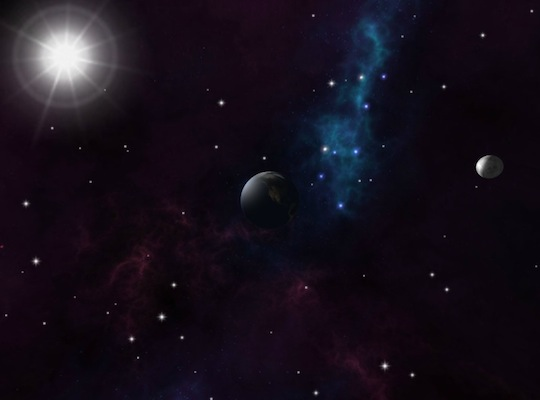
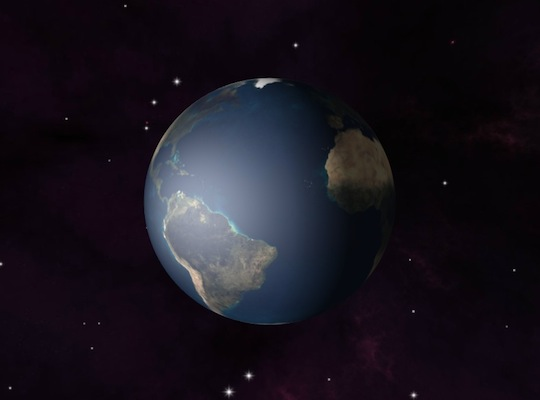
started normal mappping section in globe tutorial

diff --git a/li/materials/globe/src/Globe.html b/li/materials/globe/src/Globe.html
@@ -158,9 +158,9 @@ _view.scene.addChild( skyBox );</pre></div>
 			</section>
 			<section>
 				<h3>Lights</h3>
-				<p>Great, now that we have sufficient objects in our scene to make it rich, its time to make or celestial bodies look a little more realisting. A fundamental
-				aspect that we have ignored so far is lights. Light sources and materials that make use of such lights make objects lighter on some areas and darker on others
-				depending on the configuration of the elements. This provides a powerful enhancement to our scene.</p>
+				<p>Great, now that we have sufficient objects in our scene to make it a bit richer, its time to make or celestial bodies look a little more realistic. A fundamental
+				aspect that we have ignored so far is lighting. Light sources and materials that make use of such lights make objects lighter on some areas and darker on others
+				depending on the configuration of the elements. This provides a powerful enhancement to our scene. Let's see how it looks like when applied.</p>
 				<figure>
 					<a href="http://away3d.com/wikicontent/tutorials/li/materials/globe/bin/listing_03/Launcher.html" rel="shadowbox; width=800;height=600;"><img class="interactiveFigure" src="http://away3d.com/wikicontent/tutorials/li/materials/globe/images/listing_03.jpg"></a>
 					<figcaption>
@@ -169,6 +169,27 @@ _view.scene.addChild( skyBox );</pre></div>
 						</p>
 					</figcaption>
 				</figure>
+				<p>We haven't changed much in this listing, just added a <span class="newTerm">point light</span>, adjusted some settings on such light and the materials, and associated
+				the lights with the material's <code>LightPicker</code>. There are different types of lights in Away3D <code>PointLight</code> being one of them. This represents
+				a light source that emanates light from a point in all directions, oposing other types of lights like <code>DirectionalLight</code> which emanates light from no
+				particular point in a single direction. Each type produces a different effect. In our case, we've used a point light and placed it at the same position of our sun sprite.
+				We've also placed this light in an array and assigned it to our listing's <code>StaticLightPicker</code>. A <span class="newTerm">light picker</span> is simply
+				an object used to group and collect lights in a scene. Consecutively, this light picker is assigned to each of the materials that want to be illuminated. In this case we've applied it
+				to texture materials but the same thing can be done to other types of materials such as color materials. Under the hood, the result is that Away3D produces a phong shader model to
+				illuminate the affected objects.</p>
+				<h4>Phong Shading</h4>
+				<p>Shading via Stage3D uses a rather complicated shading language called AGAL. It looks almost like assembler and is quite hard to deal with. It allows us to produce shader
+				programs which can be uploaded to the GPU and, together with geometries, textures, transforms, etc, define how things are drawn to screen. Fortunately, Away3D wraps all
+				these complexities into an intuitive material system where we can control shading models simply by manipulating parameters. In this case, we've touched on the light source's
+				ambient, diffuse and specular values and the materials' gloss values. The ambient property of the light illuminates objects from no specific origin or direction, simulating
+				a scene's random reflectance with no specifically directed shading. In this case, we've set it to 1 so that the dark side of our celestial bodies are not completely in
+				darkness. The diffuse property affects the amount in which incident light on the geometry's normals illuminates it. We've set it to 2 to exaggerate the difference between the lit
+				areas and the ones in darkness. The specular property of the light affects how much the reflecting highlight depending on the incident direction of the light, the surface
+				normals and the view angle light the surface. Finally, the gloss property of the material determines how spread out the specular highlight is. Try different values for each,
+				you'll get a better glimpse of what each does if you do so. Or if you want to dwell deeper into the fantastic world of shading, <a href="http://nehe.gamedev.net/article/glsl_an_introduction/25007/">this</a>
+				is a good place to start. It's GLSL instead of AGAL, but the concepts are what matter.</p>
+				<p>One thing to note and that is sometimes confusing is that materials, as lights, share some of the ambient, diffuse and specular properties. These values get combined in the
+				shader so you can have, for instance, different ambient illumination on a set of objects affected by the same light source.</p>
 			</section>
 		</article>
 	</body>
